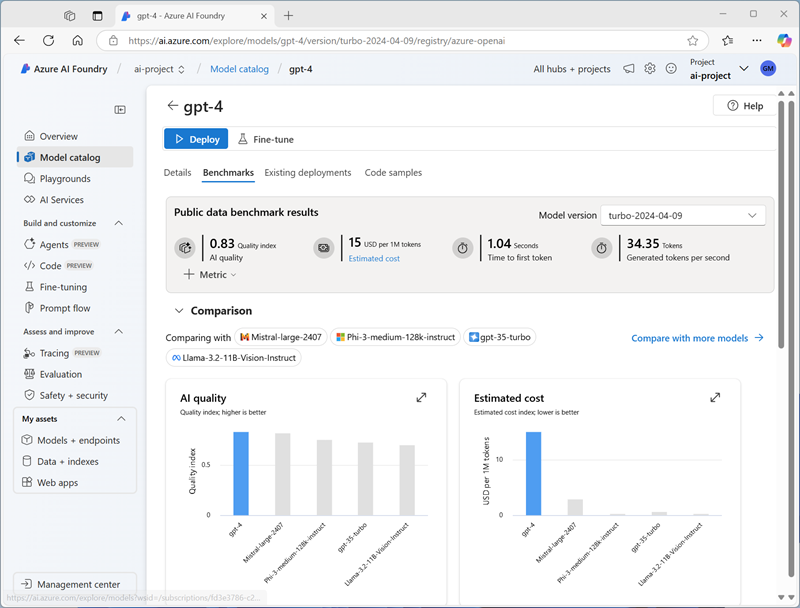
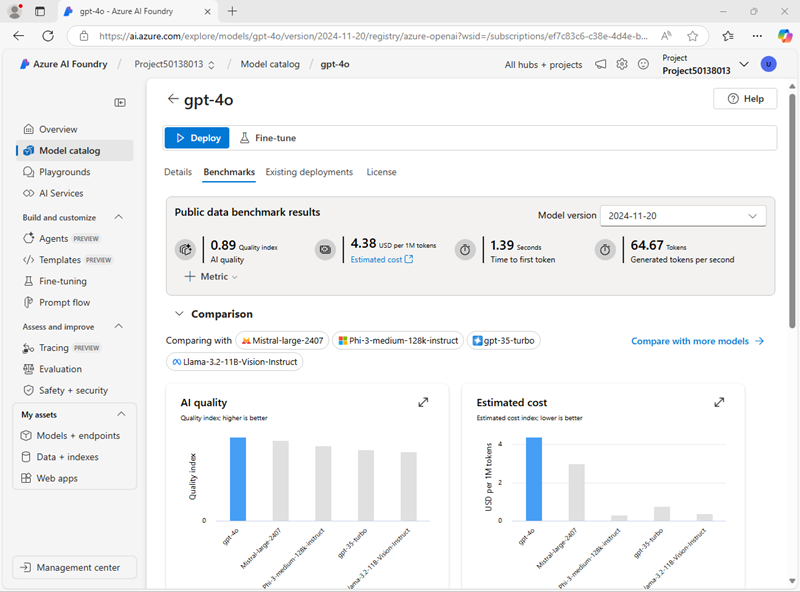
C# added

diff --git a/Instructions/02-Explore-model-catalog.md b/Instructions/02-Explore-model-catalog.md
@@ -16,7 +16,7 @@ This exercise will take approximately **25** minutes.
 
 An Azure AI hub provides a collaborative workspace within which you can define one or more *projects*. Let's create a project and Azure AI hub.
 
-1. In a web browser, open the [Azure AI Foundry portal](https://ai.azure.com) at `https://ai.azure.com` and sign in using your Azure credentials. Close any tips or quick start panes that are opened the first time you sign in, and if necessary use the **Azure AI Foundry** logo at the top left to navigate to the home page, which looks similar to the following image:
+1. In a web browser, open the [Azure AI Foundry portal](https://ai.azure.com) at `https://ai.azure.com` and sign in using your Azure credentials. Close any tips or quick start panes that are opened the first time you sign in, and if necessary use the **Azure AI Foundry** logo at the top left to navigate to the home page, which looks similar to the following image (close the **Help** pane if it is open):
 
     ![Screenshot of Azure AI Foundry portal.](./media/ai-foundry-home.png)
 
@@ -26,11 +26,11 @@ An Azure AI hub provides a collaborative workspace within which you can define o
     - **Hub name**: *A unique name - for example `my-ai-hub`*
     - **Subscription**: *Your Azure subscription*
     - **Resource group**: *Create a new resource group with a unique name (for example, `my-ai-resources`), or select an existing one*
-    - **Location**: Select **Help me choose** and then select **gpt-4** in the Location helper window and use the recommended region\*
+    - **Location**: Select **Help me choose** and then select **gpt-4o** in the Location helper window and use the recommended region\*
     - **Connect Azure AI Services or Azure OpenAI**: *Create a new AI Services resource with an appropriate name (for example, `my-ai-services`) or use an existing one*
     - **Connect Azure AI Search**: Skip connecting
 
-    > \* Model quotas are constrained at the tenant level by regional quotas. In the event of a quota limit being reached later in the exercise, there's a possibility you may need to create another resource in a different region.
+    > \* Azure OpenAI resources are constrained by regional model quotas. In the event of a quota limit being exceeded later in the exercise, there's a possibility you may need to create another resource in a different region.
 
 1. Select **Next** and review your configuration. Then select **Create** and wait for the process to complete.
 1. When your project is created, close any tips that are displayed and review the project page in Azure AI Foundry portal, which should look similar to the following image:
@@ -49,19 +49,19 @@ There are multiple options for deploying models in the Azure AI Foundry portal. 
 To help you choose a model, you can explore model descriptions and benchmarks to determine which model best fits your needs.
 
 1. In the Azure AI Foundry project portal, in the navigation pane on the left, select **Model catalog**.
-1. In the model catalog home page, search for `gpt-4` to find the **gpt-4** chat completion model.
+1. In the model catalog home page, search for `gpt-4o` to find the **gpt-4o** chat completion model.
 
-    ![Screenshot of a search for "gpt-4" in the model catalog.](./media/model-catalog-search-gpt4.png)
+    ![Screenshot of a search for "gpt-4o" in the model catalog.](./media/model-catalog-search-gpt4.png)
 
-1. Select the **gpt-4** model and view its details. Read the description and review the other information available on the page.
+1. Select the **gpt-4o** model and view its details. Read the description and review the other information available on the page.
 
-    ![Screenshot of the gpt-4 model details page.](./media/gpt4-details.png)
+    ![Screenshot of the gpt-4o model details page.](./media/gpt4-details.png)
 
-1. On the **gpt-4** page, view the **Benchmarks** tab to see how the model compares across some standard performance benchmarks with other models that are used in similar scenarios.
+1. On the **gpt-4o** page, view the **Benchmarks** tab to see how the model compares across some standard performance benchmarks with other models that are used in similar scenarios.
 
-    ![Screenshot of the gpt-4 model benchmarks page.](./media/gpt4-benchmarks.png)
+    ![Screenshot of the gpt-4o model benchmarks page.](./media/gpt4-benchmarks.png)
 
-1. Use the back arrow (**&larr;**) next to the **gpt-4** page title to return to the model catalog home page.
+1. Use the back arrow (**&larr;**) next to the **gpt-4o** page title to return to the model catalog home page.
 1. In the model catalog, search for `Phi-3.5-mini-instruct` and view the details and benchmarks for the **Phi-3.5-mini-instruct** model.
 
 ## Compare models
@@ -75,10 +75,10 @@ You've reviewed two different models, both of which could be used to implement a
 
 1. In the **Models to compare** pane on the left, note that you can select popular tasks, such as *question answering* to automatically select commonly used models for specific tasks.
 1. Use the **Clear all models** (&#128465;) icon to remove all of the pre-selected models.
-1. Use the **+ Model to compare** button to add the **gpt-4** model to the list. Then use the same button to add the **Phi-3.5-mini-instruct** model to the list.
+1. Use the **+ Model to compare** button to add the **gpt-4o** model to the list. Then use the same button to add the **Phi-3.5-mini-instruct** model to the list.
 1. Review the chart, which compares the models based on **Quality Index** (a standardized score indicating model quality) and **Cost**. You can see the specific values for a model by holding the mouse over the point that represents it in the chart.
 
-    ![Screenshot of the model comparison chart for gpt-4 and Phi-3.5-mini-instruct.](./media/comparison-chart.png)
+    ![Screenshot of the model comparison chart for gpt-4o and Phi-3.5-mini-instruct.](./media/comparison-chart.png)
 
 1. In the **X-axis** dropdown menu, under **Quality**, select the following metrics and observe each resulting chart before switching to the next:
     - Accuracy
@@ -95,18 +95,18 @@ Now that you have explored your options through model benchmarks, you're ready t
 Let's start by deploying a model from the Model catalog. You may prefer this option when you want to review multiple available models.
 
 1. Return to the **Model catalog** home page.
-1. Search for and select the `gpt-4` model, just as you did previously.
-1. On the **gpt-4** page, select **Deploy** and deploy the model with the following settings by selecting **Customize** in the deployment details:
+1. Search for and select the `gpt-4o` model, just as you did previously.
+1. On the **gpt-4o** page, select **Deploy** and deploy the model with the following settings by selecting **Customize** in the deployment details:
 1. Deploy the model with the following settings by selecting **Customize** in the deployment details:
-    - **Deployment name**: *A unique name for your model deployment - for example `gpt-4`*
-    - **Deployment type**: Standard
-    - **Model version**: 0613
+    - **Deployment name**: *A unique name for your model deployment - for example `gpt-4o`*
+    - **Deployment type**: Global Standard
+    - **Automatic version update**: Enabled
+    - **Model version**: *Select the most recent available version*
     - **Connected AI resource**: *Select your Azure OpenAI resource connection*
-    - **Tokens per Minute Rate Limit (thousands)**: 5K
+    - **Tokens per Minute Rate Limit (thousands)**: 50K *(or the maximum available in your subscription if less than 50K)*
     - **Content filter**: DefaultV2
-    - **Enable dynamic quota**: Disabled
-      
-    > **Note**: Reducing the TPM helps avoid over-using the quota available in the subscription you are using. 5,000 TPM is sufficient for the data used in this exercise.
+
+    > **Note**: Reducing the TPM helps avoid over-using the quota available in the subscription you are using. 50,000 TPM should be sufficient for the data used in this exercise. If your available quota is lower than this, you will be able to complete the exercise but you may need to wait and resubmit prompts if the rate limit is exceeded.
 
 1. Wait for the deployment to complete.
 
@@ -134,9 +134,9 @@ Now that you have two models to compare, let's see how the models behave in a co
 1. In the **Setup** pane, in the **Give the model instructions and context** field, set the system prompt to `You are an AI assistant that helps solve problems.`
 1. Select **Apply changes**.
 
-### Chat with the *gpt-4* model
+### Chat with the *gpt-4o* model
 
-In the **Setup** pane, select your *gpt-4* model.
+In the **Setup** pane, select your *gpt-4o* model.
 1. In the chat window, enter the following query
 
     ```

diff --git a/Instructions/02a-AI-foundry-sdk.md b/Instructions/02a-AI-foundry-sdk.md
@@ -16,7 +16,7 @@ This exercise takes approximately **40** minutes.
 
 Let's start by creating an Azure AI Foundry project.
 
-1. In a web browser, open the [Azure AI Foundry portal](https://ai.azure.com) at `https://ai.azure.com` and sign in using your Azure credentials. Close any tips or quick start panes that are opened the first time you sign in, and if necessary use the **Azure AI Foundry** logo at the top left to navigate to the home page, which looks similar to the following image:
+1. In a web browser, open the [Azure AI Foundry portal](https://ai.azure.com) at `https://ai.azure.com` and sign in using your Azure credentials. Close any tips or quick start panes that are opened the first time you sign in, and if necessary use the **Azure AI Foundry** logo at the top left to navigate to the home page, which looks similar to the following image (close the **Help** pane if it is open):
 
     ![Screenshot of Azure AI Foundry portal.](./media/ai-foundry-home.png)
 
@@ -26,11 +26,11 @@ Let's start by creating an Azure AI Foundry project.
     - **Hub name**: *A unique name - for example `my-ai-hub`*
     - **Subscription**: *Your Azure subscription*
     - **Resource group**: *Create a new resource group with a unique name (for example, `my-ai-resources`), or select an existing one*
-    - **Location**: Select **Help me choose** and then select **gpt-4** in the Location helper window and use the recommended region\*
+    - **Location**: Select **Help me choose** and then select **gpt-4o** in the Location helper window and use the recommended region\*
     - **Connect Azure AI Services or Azure OpenAI**: *Create a new AI Services resource with an appropriate name (for example, `my-ai-services`) or use an existing one*
     - **Connect Azure AI Search**: Skip connecting
 
-    > \* Model quotas are constrained at the tenant level by regional quotas. In the event of a quota limit being reached later in the exercise, there's a possibility you may need to create another resource in a different region.
+    > \* Azure OpenAI resources are constrained by regional model quotas. In the event of a quota limit being exceeded later in the exercise, there's a possibility you may need to create another resource in a different region.
 
 1. Select **Next** and review your configuration. Then select **Create** and wait for the process to complete.
 1. When your project is created, close any tips that are displayed and review the project page in Azure AI Foundry portal, which should look similar to the following image:
@@ -39,22 +39,21 @@ Let's start by creating an Azure AI Foundry project.
 
 ## Deploy a generative AI model
 
-Now you're ready to deploy a generative AI language model to support your chat application. In this example, you'll use the OpenAI gpt-4 model; but the principles are the same for any model.
+Now you're ready to deploy a generative AI language model to support your chat application. In this example, you'll use the OpenAI gpt-4o model; but the principles are the same for any model.
 
-1. In the toolbar at the top right of your Azure AI Foundry project page, use the **Preview features** icon to enable the **Deploy models to Azure AI model inference service** feature. This feature ensures your model deployment is available to the Azure AI Inference service, which you'll use in your application code.
 1. In the pane on the left for your project, in the **My assets** section, select the **Models + endpoints** page.
 1. In the **Models + endpoints** page, in the **Model deployments** tab, in the **+ Deploy model** menu, select **Deploy base model**.
-1. Search for the **gpt-4** model in the list, and then select and confirm it.
+1. Search for the **gpt-4o** model in the list, and then select and confirm it.
 1. Deploy the model with the following settings by selecting **Customize** in the deployment details:
-    - **Deployment name**: *A unique name for your model deployment - for example `gpt-4` (remember the name you choose - you'll need it later)*
-    - **Deployment type**: Standard
-    - **Model version**: 0613
+    - **Deployment name**: *A unique name for your model deployment - for example `gpt-4o`*
+    - **Deployment type**: Global Standard
+    - **Automatic version update**: Enabled
+    - **Model version**: *Select the most recent available version*
     - **Connected AI resource**: *Select your Azure OpenAI resource connection*
-    - **Tokens per Minute Rate Limit (thousands)**: 5K
+    - **Tokens per Minute Rate Limit (thousands)**: 50K *(or the maximum available in your subscription if less than 50K)*
     - **Content filter**: DefaultV2
-    - **Enable dynamic quota**: Disabled
 
-    > **Note**: Reducing the TPM helps avoid over-using the quota available in the subscription you are using. 5,000 TPM is sufficient for the data used in this exercise.
+    > **Note**: Reducing the TPM helps avoid over-using the quota available in the subscription you are using. 50,000 TPM should be sufficient for the data used in this exercise. If your available quota is lower than this, you will be able to complete the exercise but you may experience errors if the rate limit is exceeded.
 
 1. Wait for the deployment to complete.
 
@@ -82,7 +81,7 @@ Now that you have deployed a model, you can use the Azure AI Foundry and Azure A
 
     **<font color="red">Ensure you've switched to the classic version of the cloud shell before continuing.</font>**
 
-1. In the PowerShell pane, enter the following commands to clone the GitHub repo containing the code files for this exercise:
+1. In the cloud shell pane, enter the following commands to clone the GitHub repo containing the code files for this exercise:
 
     ```
     rm -r mslearn-ai-foundry -f
@@ -295,6 +294,8 @@ Now that you have deployed a model, you can use the Azure AI Foundry and Azure A
 1. When prompted, enter a question, such as `What is the fastest animal on Earth?` and review the response from your generative AI model.
 1. Try some follow-up questions, like `Where can I see one?` or `Are they endangered?`. The conversation should continue, using the chat history as context for each iteration.
 1. When you're finished, enter `quit` to exit the program.
+
+> **Tip**: If the app fails because the rate limit is exceeded. Wait a few seconds and try again. If there is insufficient quota available in your subscription, the model may not be able to respond.
 
 ## Use the OpenAI SDK
 

diff --git a/Instructions/01-Explore-ai-studio.md b/Instructions/01-Explore-ai-studio.md
@@ -14,7 +14,7 @@ This exercise takes approximately **30** minutes.
 
 Let's start by signing into Azure AI Foundry portal.
 
-1. In a web browser, open the [Azure AI Foundry portal](https://ai.azure.com) at `https://ai.azure.com` and sign in using your Azure credentials. Close any tips or quick start panes that are opened the first time you sign in, and if necessary use the **Azure AI Foundry** logo at the top left to navigate to the home page, which looks similar to the following image:
+1. In a web browser, open the [Azure AI Foundry portal](https://ai.azure.com) at `https://ai.azure.com` and sign in using your Azure credentials. Close any tips or quick start panes that are opened the first time you sign in, and if necessary use the **Azure AI Foundry** logo at the top left to navigate to the home page, which looks similar to the following image (close the **Help** pane if it is open):
 
     ![Screenshot of Azure AI Foundry portal.](./media/ai-foundry-home.png)
 
@@ -30,11 +30,11 @@ An Azure AI *hub* provides a collaborative workspace within which you can define
     - **Hub name**: *A unique name - for example `my-ai-hub`*
     - **Subscription**: *Your Azure subscription*
     - **Resource group**: *Create a new resource group with a unique name (for example, `my-ai-resources`), or select an existing one*
-    - **Location**: Select **Help me choose** and then select **gpt-4** in the Location helper window and use the recommended region\*
+    - **Location**: Select **Help me choose** and then select **gpt-4o** in the Location helper window and use the recommended region\*
     - **Connect Azure AI Services or Azure OpenAI**: *Create a new AI Services resource with an appropriate name (for example, `my-ai-services`) or use an existing one*
     - **Connect Azure AI Search**: Skip connecting
 
-    > \* Azure OpenAI resources are constrained at the tenant level by regional quotas. In the event of a quota limit being reached later in the exercise, there's a possibility you may need to create another resource in a different region.
+    > \* Azure OpenAI resources are constrained by regional model quotas. In the event of a quota limit being exceeded later in the exercise, there's a possibility you may need to create another resource in a different region.
 
 1. Select **Next** and review your configuration. Then select **Create** and wait for the process to complete.
 1. When your project is created, close any tips that are displayed and review the project page in Azure AI Foundry portal, which should look similar to the following image:
@@ -112,21 +112,30 @@ Your project also contains connected resources for Azure OpenAI, which enables y
 
 1. In the pane on the left for your project, in the **My assets** section, select the **Models + endpoints** page.
 1. In the **Models + endpoints** page, in the **Model deployments** tab, in the **+ Deploy model** menu, select **Deploy base model**.
-1. Search for the **gpt-4** model in the list, and then select and confirm it.
+1. Search for the **gpt-4o** model in the list, and then select and confirm it.
 1. Deploy the model with the following settings by selecting **Customize** in the deployment details:
-    - **Deployment name**: *A unique name for your model deployment - for example `gpt-4-model`*
-    - **Deployment type**: Standard
-    - **Model version**: *Select the default version*
-    - **Connected AI resource**: *Select either of your Azure OpenAI resource connections*
-    - **Tokens per Minute Rate Limit (thousands)**: 5K
+    - **Deployment name**: *A unique name for your model deployment - for example `gpt-4o`*
+    - **Deployment type**: Global Standard
+    - **Automatic version update**: Enabled
+    - **Model version**: *Select the most recent available version*
+    - **Connected AI resource**: *Select your Azure OpenAI resource connection*
+    - **Tokens per Minute Rate Limit (thousands)**: 50K *(or the maximum available in your subscription if less than 50K)*
     - **Content filter**: DefaultV2
-    - **Enable dynamic quota**: Disabled
-      
-    > **Note**: Reducing the TPM helps avoid over-using the quota available in the subscription you are using. 5,000 TPM is sufficient for the data used in this exercise.
+
+    > **Note**: Reducing the TPM helps avoid over-using the quota available in the subscription you are using. 50,000 TPM should be sufficient for the data used in this exercise. If your available quota is lower than this, you will be able to complete the exercise but you may experience errors if the rate limit is exceeded.
+
+1. Wait for the deployment to complete.
 
 1. After the model has been deployed, in the deployment overview page, select **Open in playground**.
 1. In the **Chat playground** page, ensure that your model deployment is selected in the **Deployment** section.
-1. In the chat window, enter a query such as `How can I use Azure AI Services in a software development project?` and view the response:
+1. In the **Setup** pane, in the **Give the model instructions and context** box, enter the following instructions:
+
+    ```
+    You are a history teacher who can answer questions about past events all around the world.
+    ```
+
+1. Apply the changes to update the system message.
+1. In the chat window, enter a query such as `What are the key events in the history of Scotland?` and view the response:
 
     ![Screenshot of the playground in Azure AI Foundry portal.](./media/ai-foundry-playground.png)
 

diff --git a/Instructions/02b-multimodal.md b/Instructions/02b-multimodal.md
@@ -62,20 +62,24 @@ Now you're ready to deploy a *Phi-4-multimodal-instruct* model to support multim
 
 Now that you've deployed the model, you can use the deployment in a client application.
 
-> **Tip**: You can choose to develop your solution using Python or Microsoft C# *(coming soon)*. Follow the instructions in the appropriate section for your chosen language.
+> **Tip**: You can choose to develop your solution using Python or Microsoft C#. Follow the instructions in the appropriate section for your chosen language.
 
 ### Prepare the application configuration
 
 1. In the Azure AI Foundry portal, view the **Overview** page for your project.
 2. In the **Project details** area, note the **Project connection string**. You'll use this connection string to connect to your project in a client application.
 3. Open a new browser tab (keeping the Azure AI Foundry portal open in the existing tab). Then in the new tab, browse to the [Azure portal](https://portal.azure.com) at `https://portal.azure.com`; signing in with your Azure credentials if prompted.
-4. Use the **[\>_]** button to the right of the search bar at the top of the page to create a new Cloud Shell in the Azure portal, selecting a ***PowerShell*** environment. The cloud shell provides a command line interface in a pane at the bottom of the Azure portal.
+4. Use the **[\>_]** button to the right of the search bar at the top of the page to create a new Cloud Shell in the Azure portal, selecting a ***PowerShell*** environment with no storage in your subscription.
+
+    The cloud shell provides a command line interface in a pane at the bottom of the Azure portal. You can resize or maximize this pane to make it easier to work in.
 
     > **Note**: If you have previously created a cloud shell that uses a *Bash* environment, switch it to ***PowerShell***.
 
 5. In the cloud shell toolbar, in the **Settings** menu, select **Go to Classic version** (this is required to use the code editor).
 
-6. In the PowerShell pane, enter the following commands to clone the GitHub repo containing the code files for this exercise:
+    **<font color="red">Ensure you've switched to the classic version of the cloud shell before continuing.</font>**
+
+6. In the cloud shell pane, enter the following commands to clone the GitHub repo containing the code files for this exercise:
 
     ```
     rm -r mslearn-ai-foundry -f

diff --git a/Instructions/06-Explore-content-filters.md b/Instructions/06-Explore-content-filters.md
@@ -4,6 +4,10 @@ lab:
     description: 'Learn how to apply content filters that mitigate potentially offensive or harmful output in your generative AI app.'
 ---
 
+<!--
+Rewrite to use Phi?
+-->
+
 # Apply content filters to prevent the output of harmful content
 
 Azure AI Foundry includes default content filters to help ensure that potentially harmful prompts and completions are identified and removed from interactions with the service. Additionally, you can apply for permission to define custom content filters for your specific needs to ensure your model deployments enforce the appropriate responsible AI principles for your generative AI scenario. Content filtering is one element of an effective approach to responsible AI when working with generative AI models.

diff --git a/Instructions/08-Code-first-development.md b/Instructions/08-Code-first-development.md
@@ -1,5 +1,9 @@
 # Build a generative AI app using code-first development tools
 
+<!--
+Delete
+-->
+
 In this exercise, you'll clone and deploy an Azure Developer CLI template that provisions and [deploys your AI project to an online endpoint](https://learn.microsoft.com/azure/developer/azure-developer-cli/azure-ai-ml-endpoints?WT.mc_id=academic-140829-cacaste) on Azure AI Foundry. You'll then use it as a starting point to build your own custom copilot with Azure AI and a code-first experience.
 
 This exercise will take approximately **90** minutes.

diff --git a/Instructions/05-Finetune-model.md b/Instructions/05-Finetune-model.md
@@ -4,6 +4,10 @@ lab:
     description: 'Learn how to use your own additional training data to fine-tune a model and customize its behavior.'
 ---
 
+<!--
+Rewrite to use Phi?
+-->
+
 # Fine-tune a language model
 
 When you want a language model to behave a certain way, you can use prompt engineering to define the desired behavior. When you want to improve the consistency of the desired behavior, you can opt to fine-tune a model, comparing it to your prompt engineering approach to evaluate which method best fits your needs.

diff --git a/Instructions/03-Use-prompt-flow-chat.md b/Instructions/03-Use-prompt-flow-chat.md
@@ -3,6 +3,13 @@ lab:
     title: 'Use a prompt flow to manage conversation in a chat app'
     description: 'Learn how to use prompt flows to manage conversational dialogs and ensure that prompts are constructed and orchestrated for best results.'
 ---
+<!--
+Rewrite to simplify:
+- Create project
+- Deploy model
+- Fix identity and permissions
+- Create chat flow
+-->
 
 # Use a prompt flow to manage conversation in a chat app
 

diff --git a/Instructions/03b-Use-prompt-flow-NER.md b/Instructions/03b-Use-prompt-flow-NER.md
@@ -4,6 +4,10 @@ lab:
     description: "Generative AI isn't just for chat apps - learn how to use prompt flow in a text analytics scenario where named entities must be extracted from text."
 ---
 
+<!--
+Delete
+-->
+
 # Use prompt flow for Named Entity Recognition (NER)
 
 Extracting valuable information from text is known as Named Entity Recognition (NER). Entities are key words that are of interest to you in a given text.

diff --git a/Instructions/07-Evaluate-prompt-flow.md b/Instructions/07-Evaluate-prompt-flow.md
@@ -4,6 +4,10 @@ lab:
     description: 'Learn how to evaluate models and chat flows to optimize the performance of your chat app and its ability to respond appropriately.'
 ---
 
+<!--
+Rewrite to use Phi?
+-->
+
 # Evaluate generative AI performance
 
 In this exercise, you'll explore built-in and custom evaluations to assess and compare the performance of your AI applications with the Azure AI Foundry portal.

diff --git a/Instructions/04-Use-own-data.md b/Instructions/04-Use-own-data.md
@@ -3,6 +3,9 @@ lab:
     title: 'Create a generative AI app that uses your own data'
     description: 'Learn how to use the Retrieval Augmented Generation (RAG) model to build a chat app that grounds prompts using your own data.'
 ---
+<!--
+Rewrite to use gpt-4o
+-->
 
 # Create a generative AI app that uses your own data
 
